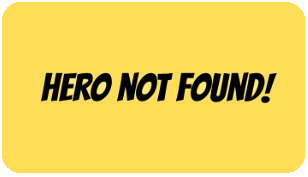
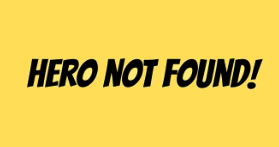
loader

Changed region(s): [[0.086, 0.381, 0.9462, 0.6259], [0.0, 0.0, 1.0, 1.0]]

diff --git a/week-6/marvel-api/src/App.js b/week-6/marvel-api/src/App.js
@@ -1,7 +1,10 @@
 import React from 'react';
+
 import Header from './components/Header';
 import Heroes from './components/Heroes';
 import NotFound from './components/NotFound';
+import Loader from './components/Loarder';
+
 import { getCharacters, getCharactersByName } from './services/api';
 
 import '../src/components/styles.css';
@@ -10,6 +13,8 @@ function App() {
   const [entrada, setEntrada] = React.useState('');
   const [erro, setErro] = React.useState(null);
   const [heroes, setHeroes] = React.useState([]);
+  const [loading, setLoading] = React.useState(true);
+  const [heroNotFound, setHeroNotFound] = React.useState(false);
 
   const handleChangeInput = ({ target }) => {
     const { value } = target;
@@ -30,16 +35,27 @@ function App() {
   const handleKeyPress = event => {
     if (event.key === 'Enter') {
       getCharactersByName(entrada)
-        .then(json => setHeroes(json.data.results))
+        .then(json => {
+          setHeroes(json.data.results);
+
+          if (json.data.results.length) {
+            setHeroNotFound(false);
+          } else {
+            setHeroNotFound(true);
+          }
+
+        })
         .catch(e => {
-          //fazer a logica do 404 aqui
           setHeroes([]);
         });
     }
   };
 
   React.useEffect(() => {
-    getCharacters().then(json => setHeroes(json.data.results));
+    getCharacters().then(json => {
+      setHeroes(json.data.results);
+      setLoading(false);
+    });
   }, []);
 
   return (
@@ -50,7 +66,8 @@ function App() {
         erro={erro}
         onKeyPress={handleKeyPress}
       />
-      {heroes.length ? <Heroes heroes={heroes} /> : <NotFound/>}
+      {loading && <Loader />}
+      {heroNotFound ? <NotFound /> : <Heroes heroes={heroes} />}
     </div>
   );
 }

diff --git a/week-6/marvel-api/src/components/styles.css b/week-6/marvel-api/src/components/styles.css
@@ -6,10 +6,12 @@
   margin: 0;
   box-sizing: border-box;
 }
-
+body {
+  background-color: #ffdd57;
+}
 .header-container {
   width: 100%;
-  height: 100px;
+  height: 150px;
   display: flex;
   flex-direction: column;
   justify-content: center;
@@ -19,7 +21,8 @@
 
 .header-container p {
   color: white;
-  font-size: 24px;
+  font-size: 36px;
+  margin-bottom: 10px;
 }
 
 .search-input input {
@@ -51,9 +54,40 @@
   margin: 10px;
 }
 
+.hero-item p {
+  margin-top: 10px;
+  text-align: center;
+}
+
 .notfound-container {
   display: flex;
   justify-content: center;
   align-items: center;
   margin-top: 50px;
+}
+
+.loader-container {
+  height: 100%;
+  margin-top: 100px;
+  display: flex;
+  justify-content: center;
+  align-items: center;
+}
+
+.loader {
+  border: 16px solid #f3f3f3;
+  border-radius: 50%;
+  border-top: 16px solid #ff3860;
+  width: 100px;
+  height: 100px;
+  animation: spin 1s linear infinite;
+}
+
+@keyframes spin {
+  0% {
+    transform: rotate(0deg);
+  }
+  100% {
+    transform: rotate(360deg);
+  }
 }

diff --git a/week-6/marvel-api/src/components/Hero.js b/week-6/marvel-api/src/components/Hero.js
@@ -1,22 +1,19 @@
 import React from 'react';
 
 export default function Hero({ hero }) {
+  console.log(hero);
   const img = hero.thumbnail.path + '.' + hero.thumbnail.extension;
   return (
-    <div  className="hero-item">
+    <div className="hero-item">
       <div>
         <div>
           <div>
-            <img src={img} alt={hero.name} width="200" height="200"/>
+            <img src={img} alt={hero.name} width="200" height="200" />
           </div>
           <div>
             <div>
               <p>{hero.name}</p>
             </div>
-          </div>
-          <div>
-            Descrição
-            <br />
           </div>
         </div>
       </div>

diff --git a/week-6/marvel-api/src/components/Loarder.js b/week-6/marvel-api/src/components/Loarder.js
@@ -1,0 +1,9 @@
+import React from 'react';
+
+export default function Loader() {
+    return (
+        <div className="loader-container">
+            <div className="loader"></div>
+        </div>
+    )
+}
